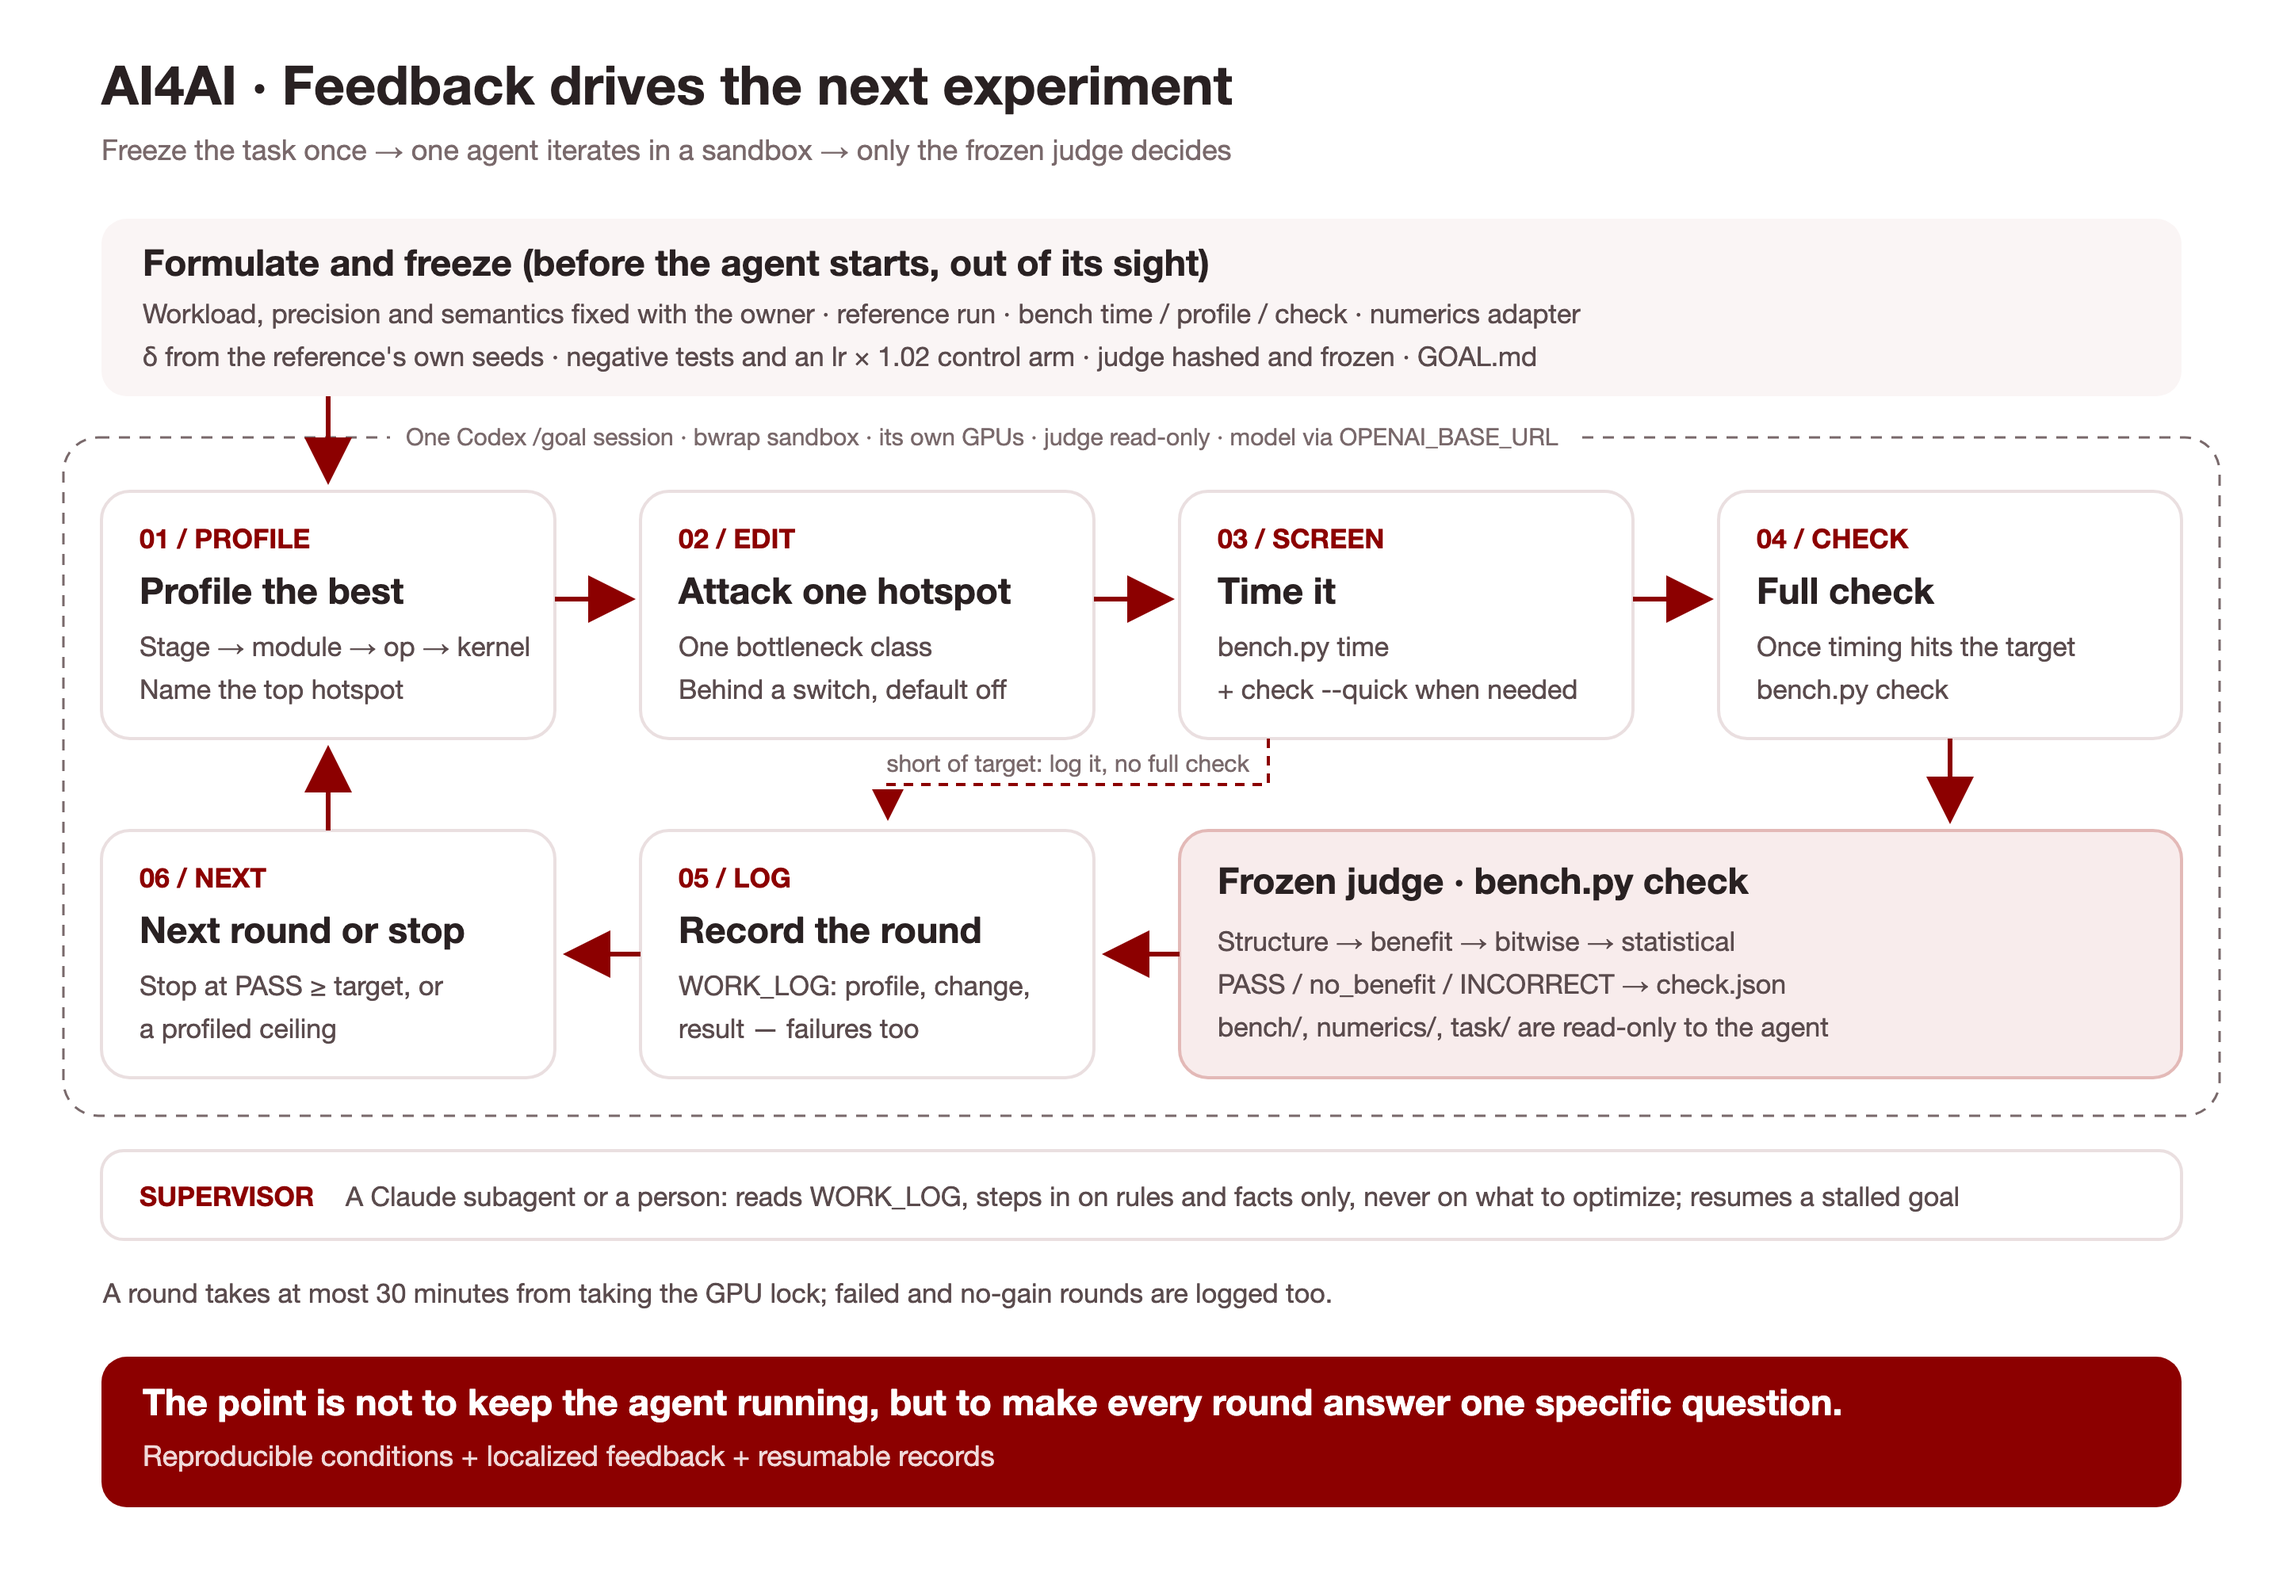
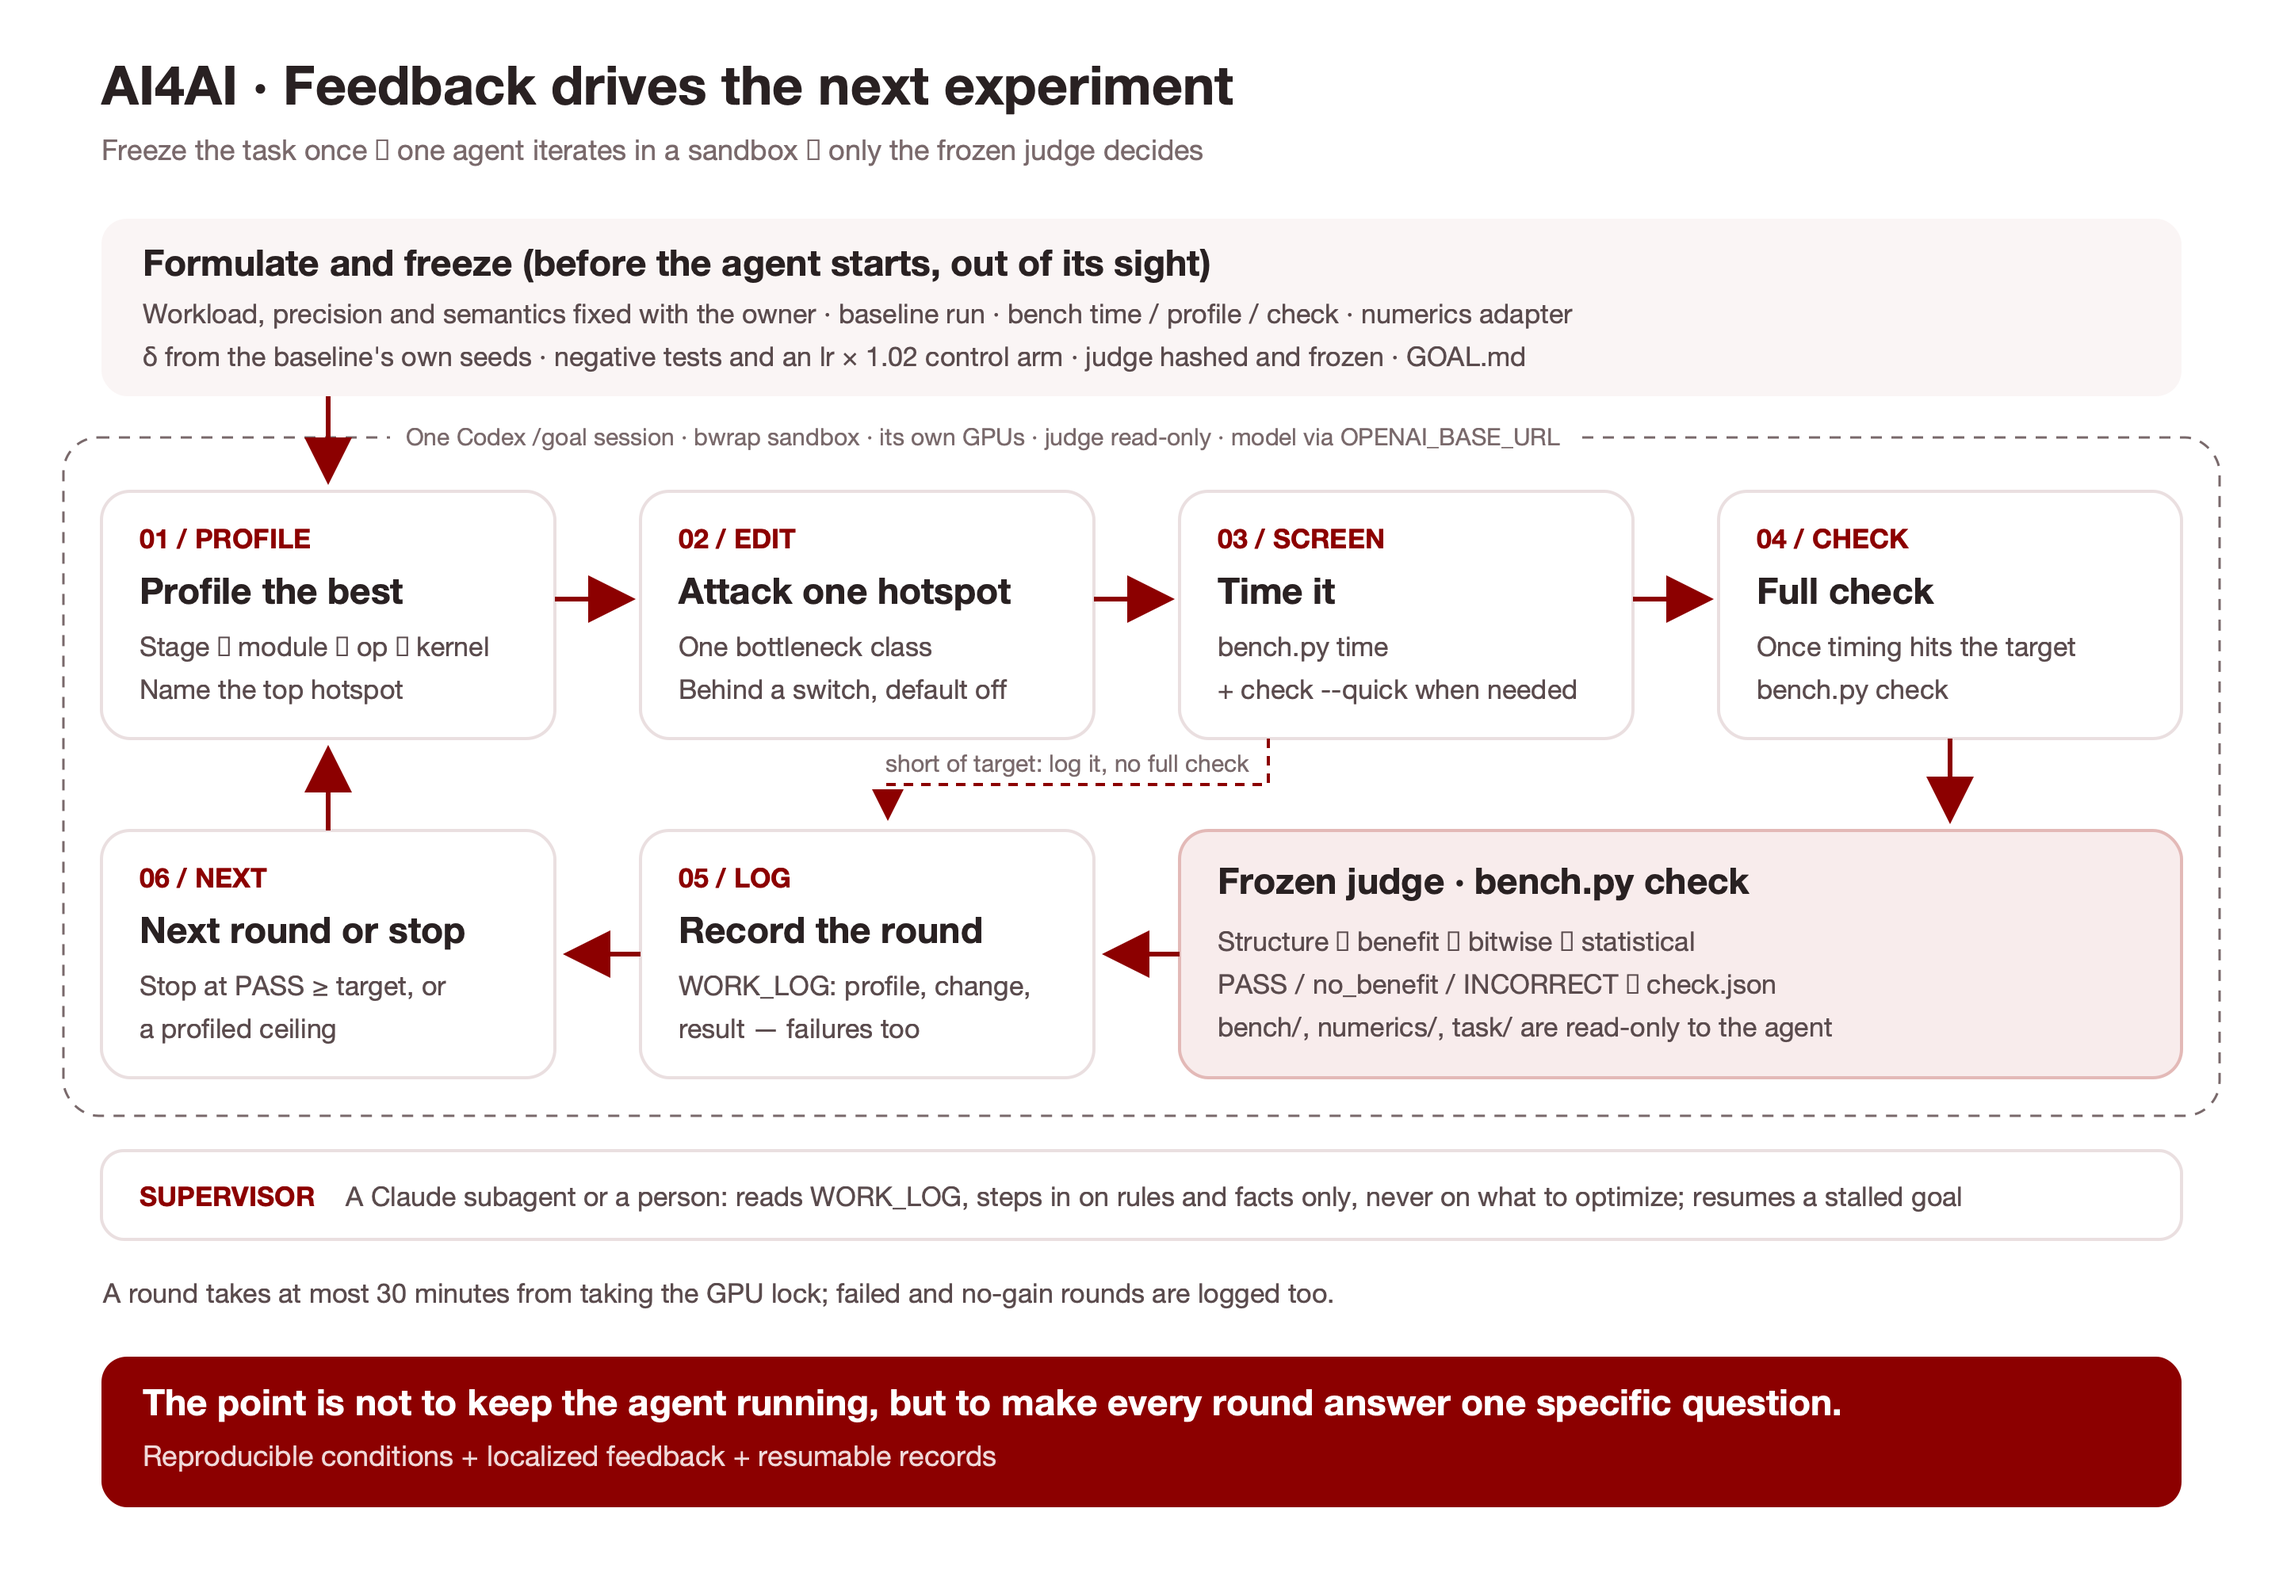
docs: standardize baseline terminology
Use Baseline / 基线 for comparison implementations in the bilingual READMEs and figures. Synchronize figure sources and existing exports while preserving upstream attribution, reference data terminology and measured results.

diff --git a/README.md b/README.md
@@ -38,7 +38,7 @@ Then point your agent at [docs/run-a-task.md](docs/run-a-task.md).
 
 ![Goal mode: formulate and freeze the judge, then one agent iterates in a sandbox: profile, edit, time, full check, log](docs/figures/goal-mode-loop.svg)
 
-1. **Frame the task.** The owner fixes what may not change: the upstream workload and per-GPU load, the reference precision, the training semantics. A formulating agent builds the judge for this task (`bench/` plus a frozen copy of [`numerics/`](numerics)), records the reference, freezes δ, proves with known-bad candidates that every gate fires, and writes `GOAL.md`.
+1. **Frame the task.** The owner fixes what may not change: the upstream workload and per-GPU load, the baseline precision, the training semantics. A formulating agent builds the judge for this task (`bench/` plus a frozen copy of [`numerics/`](numerics)), records the baseline, freezes δ, proves with known-bad candidates that every gate fires, and writes `GOAL.md`.
 2. **Run goal mode.** One Codex `/goal` session gets the workspace, the GPUs and the skill cards inside a bubblewrap sandbox. Every round it profiles the current best version, changes one hotspot behind a switch, measures with `bench.py time`, and logs the round in `WORK_LOG.md`. A supervisor watches from outside and intervenes only on rules and facts, never on optimization direction. See [docs/goal-mode.md](docs/goal-mode.md).
 3. **Accept only what the judge accepts.** `bench.py check` is the only verdict. A full-check PASS is then confirmed with a real end-to-end training or evaluation run.
 
@@ -58,15 +58,15 @@ Every number below was printed by that task's frozen judge, or comes from a full
 A candidate counts only if the task's frozen judge accepts it. The judge runs these gates in order and stops at the first one that fails:
 
 0. **Structure**: the training entry points the judge drives are unchanged (AST compare), data loading is bitwise identical, and exact items match: phase, call counts, RNG fingerprints, learning rate, cross-rank sync.
-1. **Benefit**: reference → candidate → reference timing in independent processes. A speedup that does not exceed `max(1.02, 1 + 2 × reference spread)` is rejected as no benefit; precision is not evaluated.
-2. **Bitwise**: every tensor recorded in short deterministic cases matches the reference bit for bit → accept.
-3. **Statistical**: otherwise, paired-seed training trajectories; every endpoint must stay within δ, twice the reference's own seed-to-seed standard deviation, frozen before any candidate is seen.
+1. **Benefit**: baseline → candidate → baseline timing in independent processes. A speedup that does not exceed `max(1.02, 1 + 2 × baseline spread)` is rejected as no benefit; precision is not evaluated.
+2. **Bitwise**: every tensor recorded in short deterministic cases matches the baseline bit for bit → accept.
+3. **Statistical**: otherwise, paired-seed training trajectories; every endpoint must stay within δ, twice the baseline's own seed-to-seed standard deviation, frozen before any candidate is seen.
 
 The judge is frozen and hashed before optimization starts and is never relaxed to let a candidate through. Details: [docs/judge.md](docs/judge.md).
 
 ## Starting a new task
 
-Read [AGENTS.md](AGENTS.md) and [docs/methodology.md](docs/methodology.md), give the formulating agent [`goal/templates/FORMULATOR_BRIEF.md`](goal/templates/FORMULATOR_BRIEF.md), and use [`tasks/dmd2`](tasks/dmd2) as the template: `GOAL.md`, a `bench/` with `check` / `time` / `profile`, a task adapter for [`numerics/`](numerics), and the prep scripts that rebuild the environment and freeze the reference.
+Read [AGENTS.md](AGENTS.md) and [docs/methodology.md](docs/methodology.md), give the formulating agent [`goal/templates/FORMULATOR_BRIEF.md`](goal/templates/FORMULATOR_BRIEF.md), and use [`tasks/dmd2`](tasks/dmd2) as the template: `GOAL.md`, a `bench/` with `check` / `time` / `profile`, a task adapter for [`numerics/`](numerics), and the prep scripts that rebuild the environment and freeze the baseline.
 
 ## Repository layout
 

diff --git a/README.zh-CN.md b/README.zh-CN.md
@@ -51,7 +51,7 @@ cp goal/codex.env.example goal/codex.env
 | RAE Stage-1 训练（解码器 + GAN） | bytetriper/RAE @a4d18c4 | 2 × H200 | PASS，统计等价 | 单步训练加速 **5.32×**；8 × H20 完整训练 16 epoch：rFID 0.541，公开权重 0.569 | [Faster-RAE](https://github.com/AI4AI-for-Anything/Faster-RAE) |
 | Self-Forcing 视频 DMD 训练 | guandeh17/Self-Forcing @33593df | 2 × H200 | PASS，统计等价 | **2.08×** | [Faster-SelfForcing](https://github.com/AI4AI-for-Anything/Faster-SelfForcing) |
 | LLaVA-1.5-7B 第二阶段微调 | haotian-liu/LLaVA @c121f04 | 4 × H20 | PASS，统计等价 | **2.39×**；实际训练 1 epoch 后，四项评测得分与使用官方权重的模型相差 −0.50 ~ +0.44 | [Faster-LLaVA](https://github.com/AI4AI-for-Anything/Faster-LLaVA) |
-| DMD2 一步蒸馏（SD1.5 + GAN） | tianweiy/DMD2 @8d8fa55 | 4 × H20 | PASS，统计等价 | **1.72×**；8 × H20 上 FID-30k 8.70，参考 8.65 | [Faster-DMD](https://github.com/AI4AI-for-Anything/Faster-DMD) |
+| DMD2 一步蒸馏（SD1.5 + GAN） | tianweiy/DMD2 @8d8fa55 | 4 × H20 | PASS，统计等价 | **1.72×**；8 × H20 上 FID-30k 8.70，基线 8.65 | [Faster-DMD](https://github.com/AI4AI-for-Anything/Faster-DMD) |
 
 ## 评测
 
